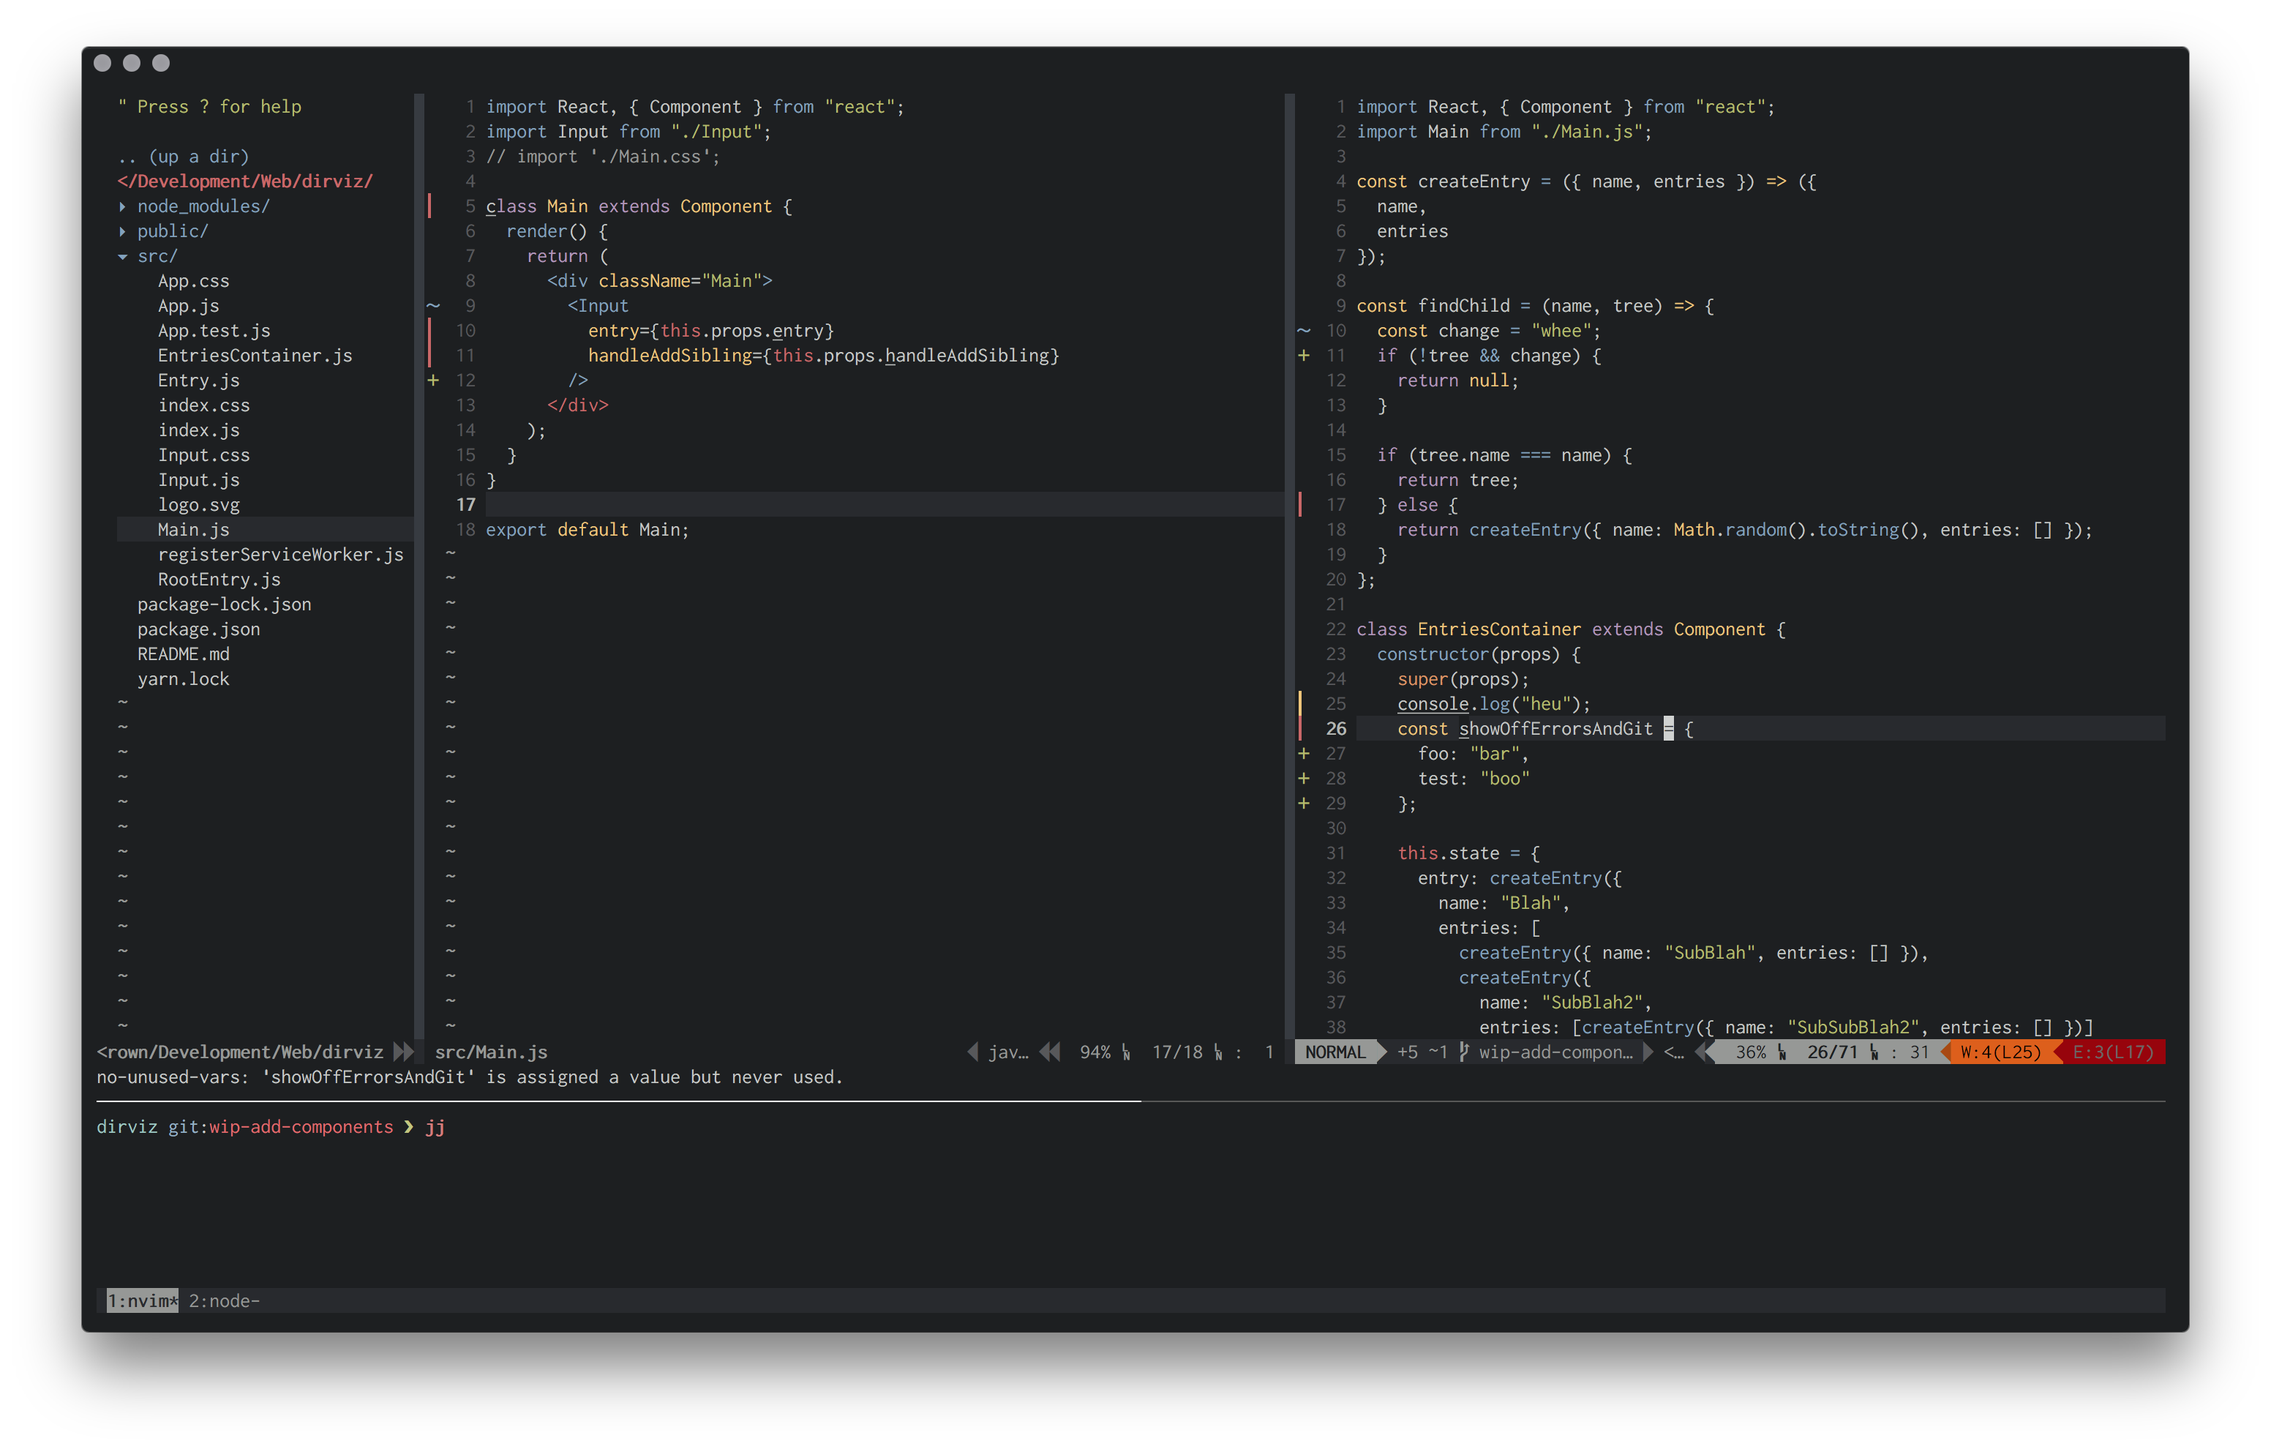
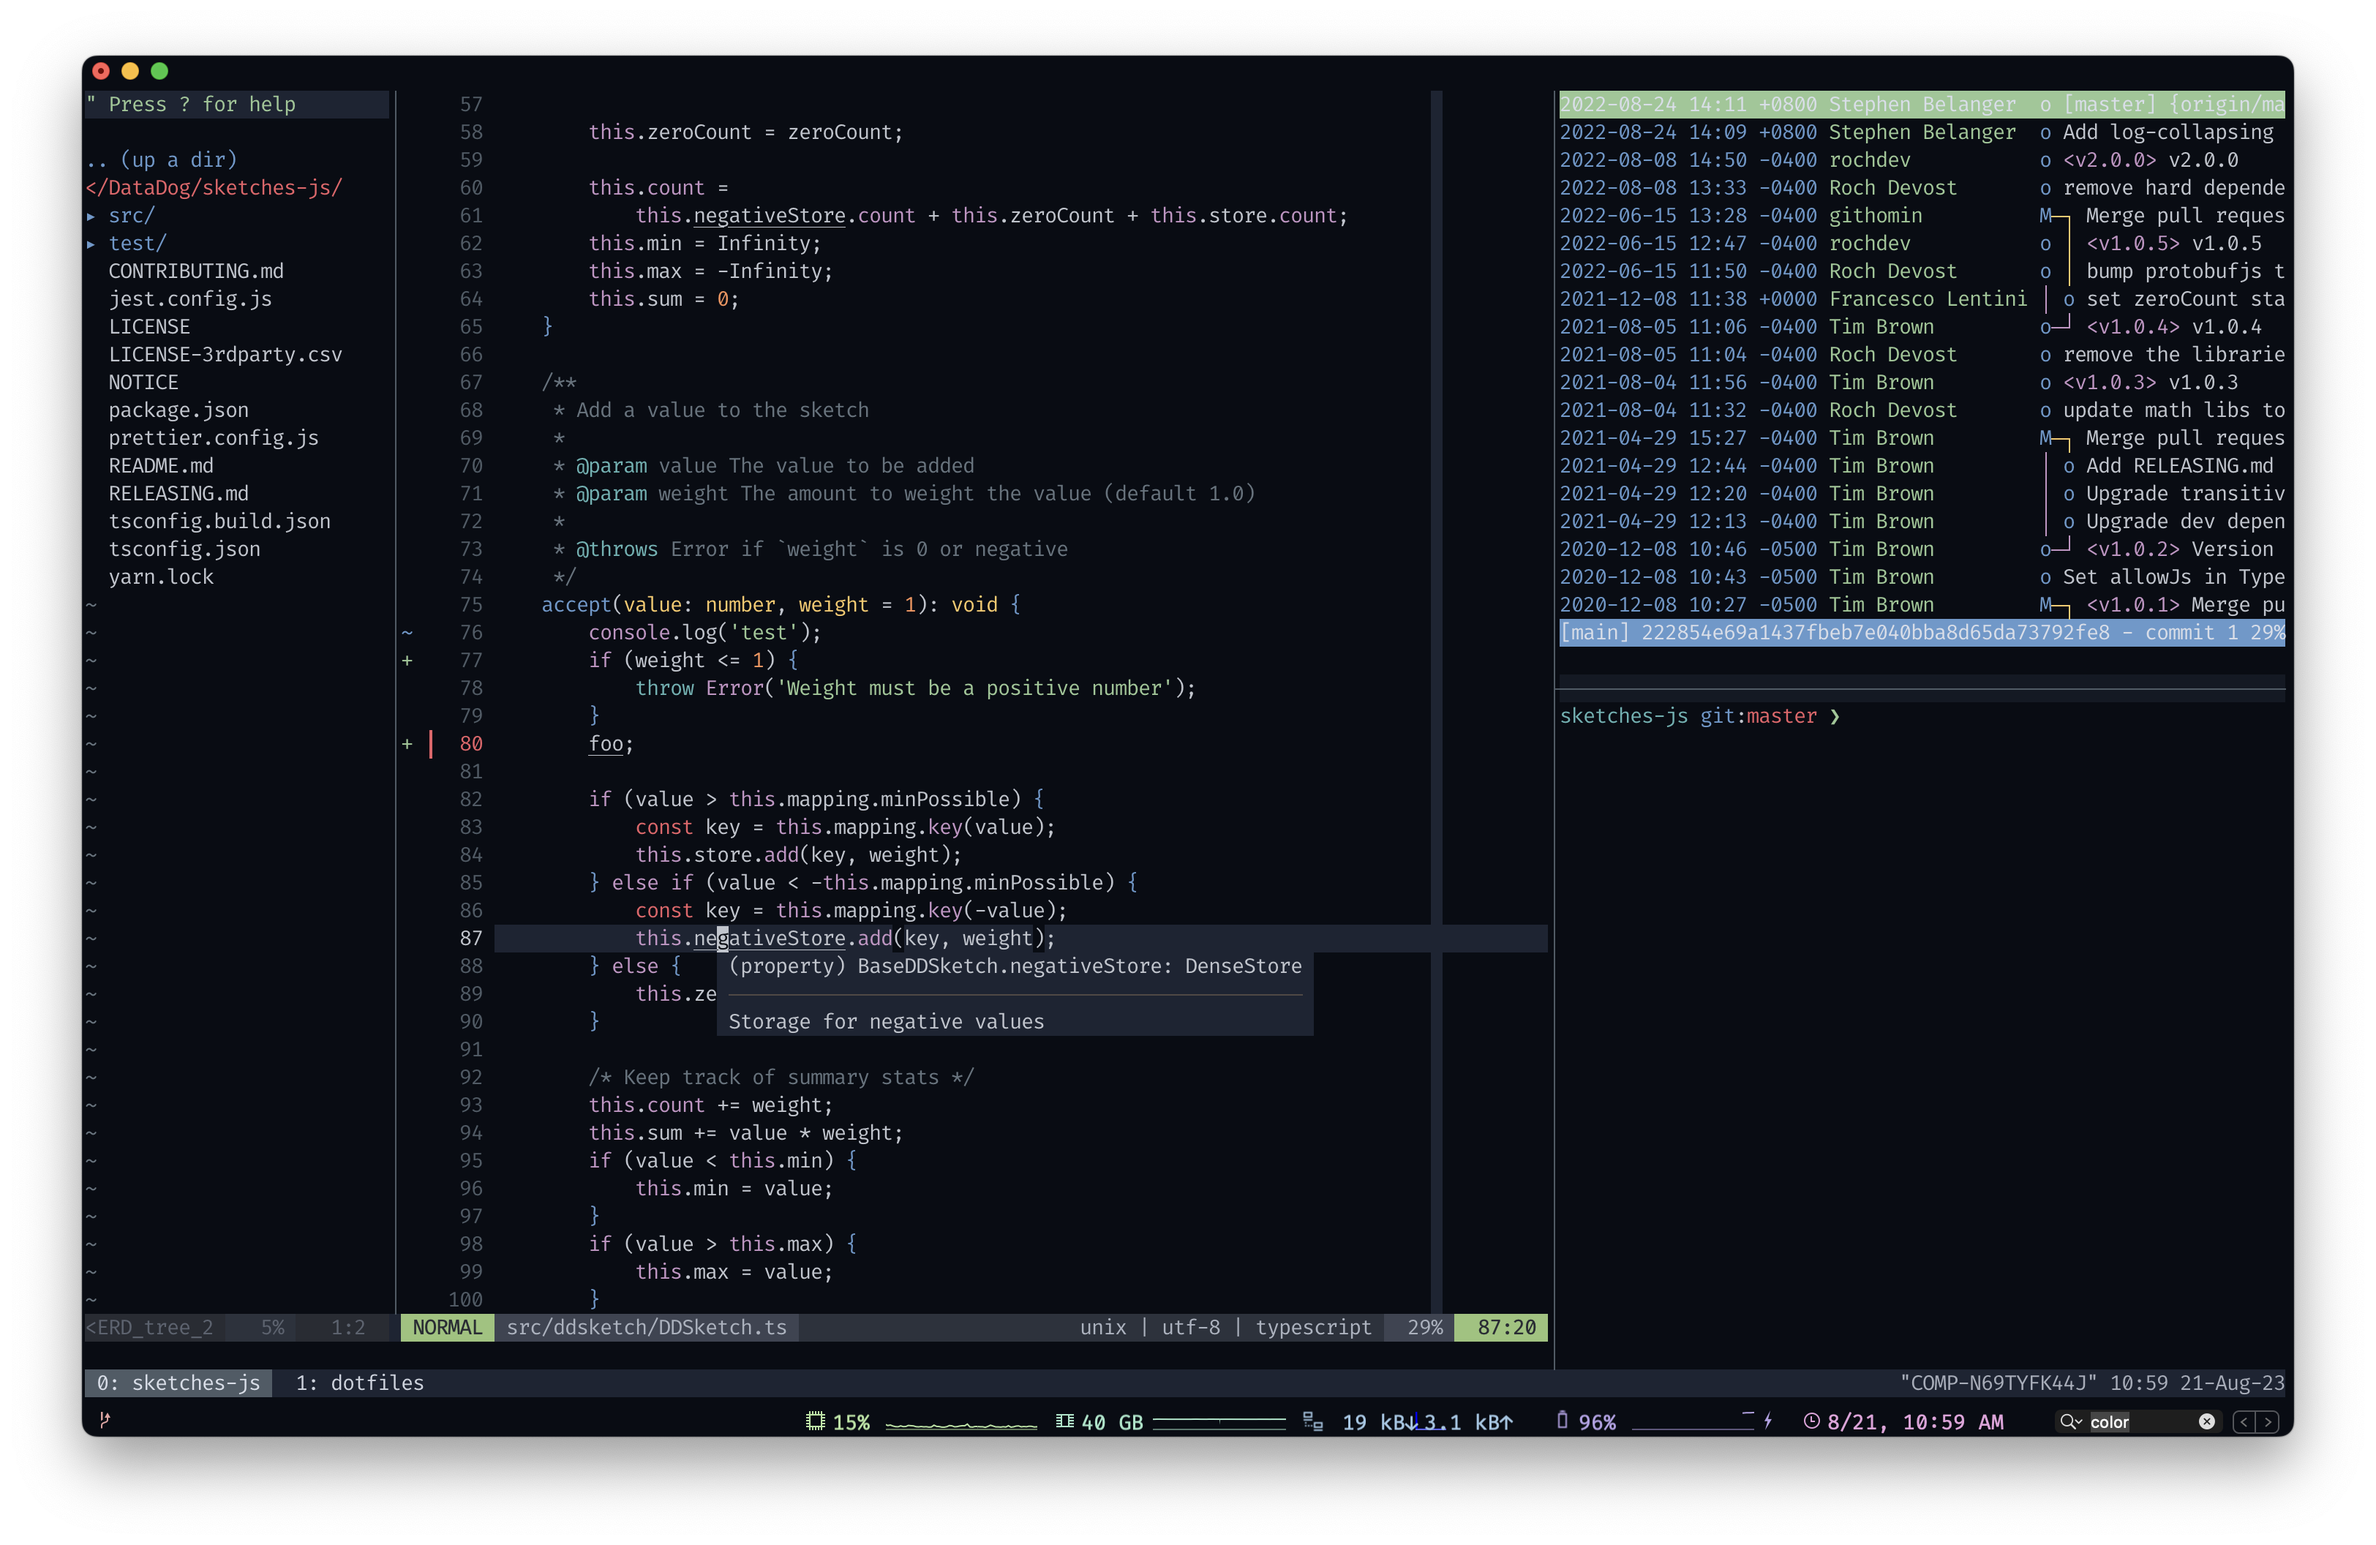
New screenshot

diff --git a/README.md b/README.md
@@ -1,8 +1,8 @@
 ![](./Editor.png)
 
 # Visual
-* Theme: Tomorrow Night (modified)
-* Font: Inconsolata-g
+* Theme: Base 16 Oceanic Dark (modified)
+* Font: Fira Code
 
 # Tools
 * nvim
